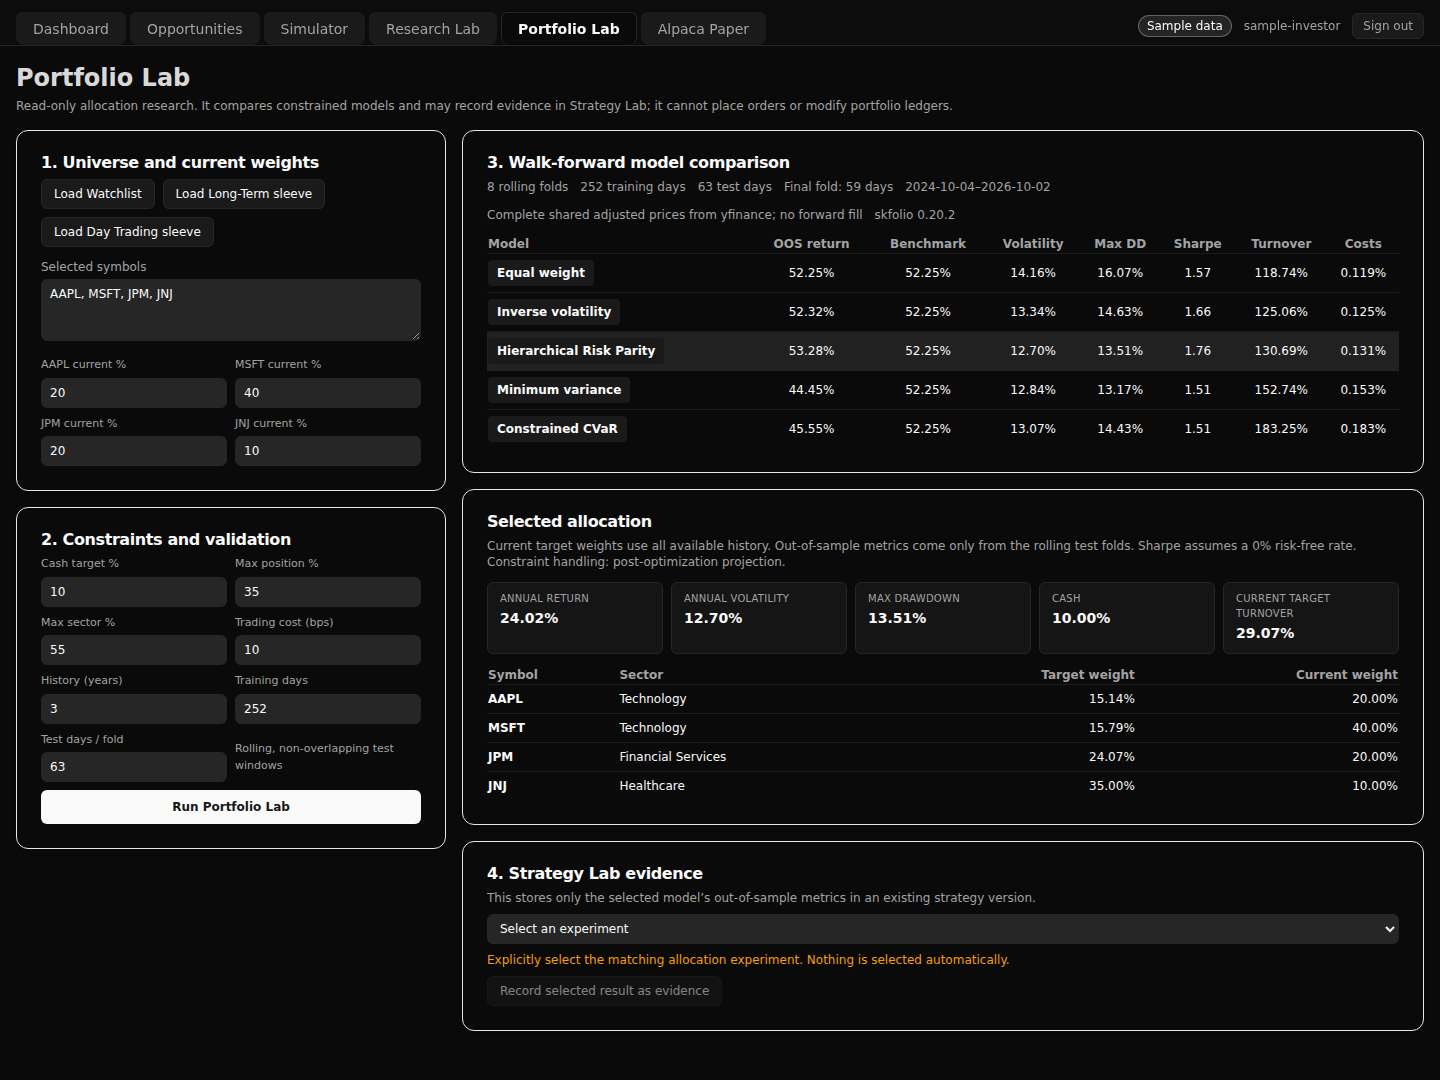
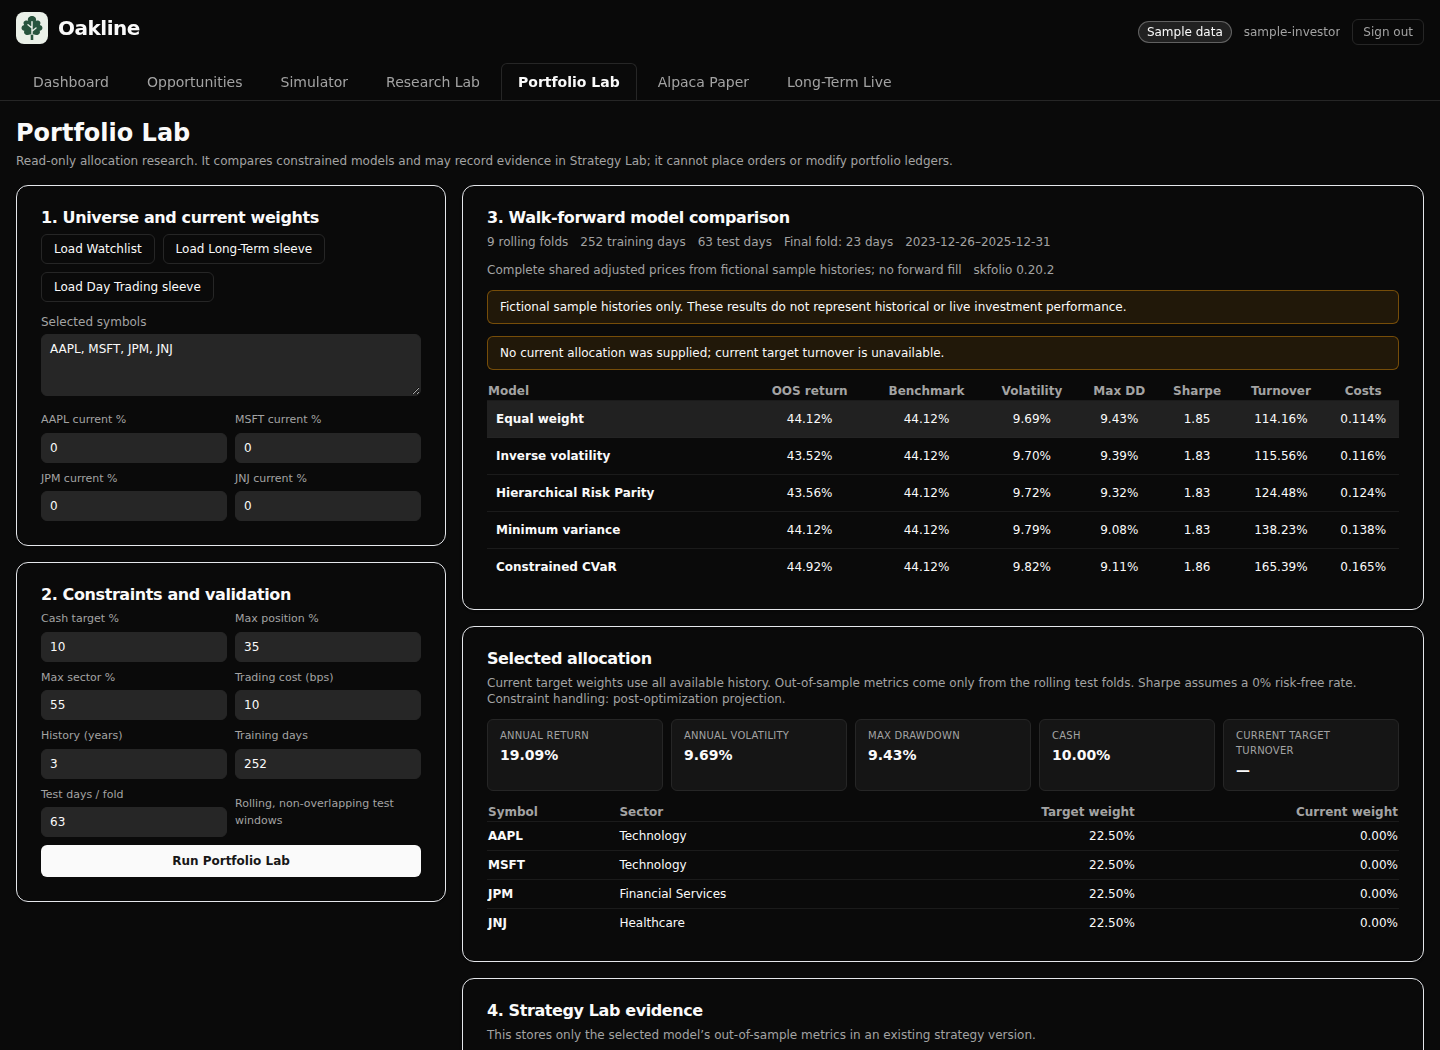
Rebrand the investment workspace as Oakline

diff --git a/frontend/src/App.tsx b/frontend/src/App.tsx
@@ -1,6 +1,7 @@
 import { lazy, Suspense, useEffect, useState } from 'react'
 import type { FormEvent } from 'react'
 import { WorkspaceErrorBoundary } from '@/components/WorkspaceErrorBoundary'
+import { OaklineBrand } from '@/components/OaklineBrand'
 import { useQueryClient } from '@tanstack/react-query'
 import { AnimatePresence, motion, MotionConfig } from 'framer-motion'
 
@@ -66,7 +67,8 @@ function LoginPage({ onAuthenticated, initialError }: {
       <section className="w-full max-w-sm rounded-xl border border-border bg-card p-6 shadow-lg">
         <div className="mb-6">
           <p className="text-xs font-semibold uppercase tracking-[0.2em] text-primary">Private investment workspace</p>
-          <h1 className="mt-2 text-2xl font-bold text-foreground">Stock Dashboard</h1>
+          <h1 className="mt-3 text-3xl text-foreground"><OaklineBrand /></h1>
+          <p className="mt-2 text-base text-foreground">Invest with perspective.</p>
           <p className="mt-2 text-sm text-muted-foreground">Sign in to access portfolio, simulator, research, and broker data.</p>
         </div>
         <form className="space-y-4" onSubmit={submit}>
@@ -126,7 +128,7 @@ function App() {
         }
       })
       .catch(() => {
-        if (active) setAuth({ status: 'guest', error: 'Unable to reach the dashboard server.' })
+        if (active) setAuth({ status: 'guest', error: 'Unable to reach Oakline.' })
       })
     return () => { active = false }
   }, [])
@@ -145,7 +147,7 @@ function App() {
   }
 
   if (auth.status === 'loading') {
-    return <main className="min-h-screen flex items-center justify-center bg-background text-sm text-muted-foreground">Securing dashboard…</main>
+    return <main className="min-h-screen flex items-center justify-center bg-background text-sm text-muted-foreground">Opening Oakline…</main>
   }
   if (auth.status === 'guest') {
     return <LoginPage initialError={auth.error} onAuthenticated={(username, sampleData) => setAuth({ status: 'authenticated', username, sampleData })} />
@@ -154,36 +156,43 @@ function App() {
   return (
     <MotionConfig reducedMotion="user">
       <a href="#workspace-content" className="sr-only focus:not-sr-only focus:fixed focus:left-4 focus:top-4 focus:z-[70] focus:rounded focus:bg-background focus:p-3 focus:text-foreground">Skip to workspace</a>
-      <nav aria-label="Workspaces" className="sticky top-0 z-50 flex items-end gap-1 overflow-x-auto border-b border-border bg-background/90 backdrop-blur-sm px-4 pt-3 pb-0">
-        {TABS.map((tab) => (
-          <button
-            key={tab.id}
-            type="button"
-            aria-current={activeTab === tab.id ? 'page' : undefined}
-            aria-controls="workspace-content"
-            onClick={() => setActiveTab(tab.id)}
-            className={[
-              'shrink-0 whitespace-nowrap px-4 py-2 text-sm rounded-t-md border border-b-0 transition-colors',
-              activeTab === tab.id
-                ? 'border-border bg-card text-foreground font-semibold'
-                : 'border-transparent text-muted-foreground hover:text-foreground',
-            ].join(' ')}
-          >
-            {tab.label}
+      <header className="sticky top-0 z-50 border-b border-border bg-background/95 backdrop-blur-sm">
+        <div className="flex flex-wrap items-center justify-between gap-x-4 gap-y-2 px-4 py-3">
+          <button type="button" onClick={() => setActiveTab('dashboard')} aria-label="Oakline home" className="rounded-md text-xl text-foreground">
+            <OaklineBrand />
           </button>
-        ))}
-        <div className="ml-auto flex items-center gap-3 pb-1.5 pl-4 text-xs text-muted-foreground">
-          {auth.sampleData && <span className="whitespace-nowrap rounded-full border border-primary/30 bg-primary/10 px-2 py-0.5 font-medium text-primary">Sample data</span>}
-          <span>{auth.username}</span>
-          <button
-            type="button"
-            onClick={() => void logout()}
-            className="rounded-md border border-border px-2.5 py-1 transition-colors hover:border-primary hover:text-foreground"
-          >
-            Sign out
-          </button>
+          <div className="flex min-w-0 flex-wrap items-center gap-3 text-xs text-muted-foreground">
+            {auth.sampleData && <span className="whitespace-nowrap rounded-full border border-primary/30 bg-primary/10 px-2 py-0.5 font-medium text-primary">Sample data</span>}
+            <span className="max-w-40 truncate" title={auth.username}>{auth.username}</span>
+            <button
+              type="button"
+              onClick={() => void logout()}
+              className="shrink-0 rounded-md border border-border px-2.5 py-1 transition-colors hover:border-primary hover:text-foreground"
+            >
+              Sign out
+            </button>
+          </div>
         </div>
-      </nav>
+        <nav aria-label="Workspaces" className="flex items-end gap-1 overflow-x-auto px-4">
+          {TABS.map((tab) => (
+            <button
+              key={tab.id}
+              type="button"
+              aria-current={activeTab === tab.id ? 'page' : undefined}
+              aria-controls="workspace-content"
+              onClick={() => setActiveTab(tab.id)}
+              className={[
+                'shrink-0 whitespace-nowrap px-4 py-2 text-sm rounded-t-md border border-b-0 transition-colors',
+                activeTab === tab.id
+                  ? 'border-border bg-card text-foreground font-semibold'
+                  : 'border-transparent text-muted-foreground hover:text-foreground',
+              ].join(' ')}
+            >
+              {tab.label}
+            </button>
+          ))}
+        </nav>
+      </header>
 
       {logoutError && <p role="alert" className="p-3 text-sm text-destructive">{logoutError}</p>}
       <section id="workspace-content" tabIndex={-1} aria-label={TABS.find((tab) => tab.id === activeTab)?.label}>

diff --git a/frontend/src/App.test.tsx b/frontend/src/App.test.tsx
@@ -4,8 +4,8 @@ import { QueryClient, QueryClientProvider } from '@tanstack/react-query'
 import App from './App'
 
 vi.mock('@/components/Dashboard', () => ({
-  Dashboard: () => <div>Stock Dashboard</div>,
-  default: () => <div>Stock Dashboard</div>,
+  Dashboard: () => <h1>Market overview</h1>,
+  default: () => <h1>Market overview</h1>,
 }))
 
 vi.mock('@/pages/AlpacaPaperPage', () => ({
@@ -50,7 +50,7 @@ describe('App', () => {
 
     renderWithProviders(<App />)
 
-    expect(await screen.findByRole('heading', { name: 'Stock Dashboard' })).toBeInTheDocument()
+    expect(await screen.findByRole('heading', { name: 'Oakline' })).toBeInTheDocument()
     expect(screen.getByRole('button', { name: 'Sign in' })).toBeInTheDocument()
     expect(screen.queryByText('Research Lab')).not.toBeInTheDocument()
   })
@@ -71,13 +71,13 @@ describe('App', () => {
     fireEvent.change(screen.getByLabelText('Password'), { target: { value: 'secret' } })
     fireEvent.click(screen.getByRole('button', { name: 'Sign in' }))
 
-    await waitFor(() => expect(screen.getByText('Stock Dashboard')).toBeInTheDocument())
+    await waitFor(() => expect(screen.getByRole('heading', { name: 'Market overview' })).toBeInTheDocument())
     expect(fetch).toHaveBeenLastCalledWith('/api/auth/login', expect.objectContaining({ method: 'POST' }))
   })
 
-  it('renders the Stock Dashboard heading', async () => {
+  it('opens the market overview in the authenticated workspace', async () => {
     renderWithProviders(<App />)
-    expect(await screen.findByText('Stock Dashboard')).toBeInTheDocument()
+    expect(await screen.findByRole('heading', { name: 'Market overview' })).toBeInTheDocument()
     expect(screen.queryByText('Sample data')).not.toBeInTheDocument()
   })
 

diff --git a/backend/server.js b/backend/server.js
@@ -124,7 +124,7 @@ function createApp({ auth = createAuthFromEnv(), env = process.env } = {}) {
 function resolveListenHost(env = process.env) {
     const host = env.STOCK_DASHBOARD_HOST || '127.0.0.1';
     if (host === '127.0.0.1' || host === '::1') return host;
-    if (host !== '0.0.0.0') throw new Error('Stock Dashboard listener must use loopback or the guarded LAN proxy mode');
+    if (host !== '0.0.0.0') throw new Error('Oakline listener must use loopback or the guarded LAN proxy mode');
     if (env.STOCK_DASHBOARD_SECURE_COOKIE !== '1') throw new Error('LAN proxy mode requires secure cookies');
     let publicOrigin;
     try {
@@ -164,7 +164,7 @@ async function start() {
 
         const host = resolveListenHost();
         const server = app.listen(PORT, host, () => {
-            console.log(`Stock Dashboard running on ${host}:${PORT}`);
+            console.log(`Oakline running on ${host}:${PORT}`);
         });
         if (releaseSampleLock) {
             process.once('exit', releaseSampleLock);

diff --git a/frontend/index.html b/frontend/index.html
@@ -3,9 +3,12 @@
 
 <head>
   <meta charset="UTF-8" />
-  <link rel="icon" type="image/svg+xml" href="/vite.svg" />
+  <link rel="icon" type="image/svg+xml" href="/oakline.svg" />
   <meta name="viewport" content="width=device-width, initial-scale=1.0" />
-  <title>Stock Dashboard</title>
+  <meta name="application-name" content="Oakline" />
+  <meta name="description" content="Oakline — invest with perspective. A workspace for investment research, portfolio tracking, simulation, and controlled live investing." />
+  <meta name="theme-color" content="#28543E" />
+  <title>Oakline — Invest with perspective.</title>
 </head>
 
 <body>

diff --git a/frontend/src/components/Dashboard.tsx b/frontend/src/components/Dashboard.tsx
@@ -59,7 +59,7 @@ export function Dashboard() {
       <div className="max-w-[1600px] mx-auto">
         {/* Header with title and glossary button */}
         <div className="flex flex-wrap items-center justify-between gap-3 mb-4">
-          <h1 className="text-2xl font-bold text-foreground">Stock Dashboard</h1>
+          <h1 className="text-2xl font-bold text-foreground">Market overview</h1>
           <div className="flex items-center gap-2">
             <button
               type="button"

diff --git a/frontend/src/components/OaklineBrand.tsx b/frontend/src/components/OaklineBrand.tsx
@@ -1,0 +1,6 @@
+export function OaklineBrand({ className = '' }: { className?: string }) {
+  return <span className={`inline-flex shrink-0 items-center gap-2.5 font-semibold tracking-tight ${className}`}>
+    <img src="/oakline.svg" width="32" height="32" alt="" className="size-8 shrink-0" />
+    <span>Oakline</span>
+  </span>
+}

diff --git a/frontend/src/types/index.ts b/frontend/src/types/index.ts
@@ -1,5 +1,5 @@
 /**
- * Shared TypeScript types for the stock dashboard.
+ * Shared TypeScript types for Oakline.
  * Field names match exactly what the Express backend returns from the Python yfinance wrapper.
  */
 

diff --git a/backend/python/yf_wrapper.py b/backend/python/yf_wrapper.py
@@ -1,6 +1,6 @@
 #!/usr/bin/env python3
 """
-yfinance wrapper for stock dashboard
+yfinance wrapper for Oakline
 Takes JSON input from stdin, outputs JSON to stdout
 """
 import yfinance as yf

diff --git a/README.md b/README.md
@@ -1,22 +1,24 @@
-# Stock Dashboard
+# Oakline
 
-A self-hosted stock research and paper-trading workbench I use myself. It brings
-market data, a transaction-ledger portfolio, risk rules, and an AI analyst with
-tools into one app. The screenshots below use a fictional portfolio in a separate
-sample database.
+*Invest with perspective.*
+
+A self-hosted investment research and trading workbench. Oakline brings market
+data, a transaction-ledger portfolio, risk rules, and an AI analyst with tools
+into one app, with separate paper-trading and guarded live-investing workspaces.
+The screenshots below use a fictional portfolio in a separate sample database.
 
 ![Market dashboard with market pulse and a stock chart](docs/screenshots/01-dashboard.png)
 
 | Portfolio and risk rules | Paper-trading simulator |
 |---|---|
-| [![Fictional holdings, P&L, and a position-limit breach](docs/screenshots/02-portfolio.png)](docs/screenshots/02-portfolio.png) | [![Separate simulator sleeves and fictional trade history](docs/screenshots/04-simulator.png)](docs/screenshots/04-simulator.png) |
+| [![Fictional holdings and portfolio risk controls](docs/screenshots/02-portfolio.png)](docs/screenshots/02-portfolio.png) | [![Separate simulator sleeves and fictional trade history](docs/screenshots/04-simulator.png)](docs/screenshots/04-simulator.png) |
 
-[![AI analyst using the portfolio risk tool to explain a position-limit breach](docs/screenshots/03-ai-analyst.png)](docs/screenshots/03-ai-analyst.png)
+[![AI analyst workspace on the fictional sample account](docs/screenshots/03-ai-analyst.png)](docs/screenshots/03-ai-analyst.png)
 
-Live OpenAI response on the fictional account: the risk tool reports MSFT at
-18.15% against a 15% position limit. No trades were requested or executed.
+The analyst screenshot shows the workspace before a conversation starts.
+No model response or trade was generated for these screenshots.
 
-[![Portfolio Lab comparing five allocation methods with walk-forward results](docs/screenshots/05-portfolio-lab.png)](docs/screenshots/05-portfolio-lab.png)
+[![Portfolio Lab comparing five allocation methods using synthetic sample histories](docs/screenshots/05-portfolio-lab.png)](docs/screenshots/05-portfolio-lab.png)
 
 **Two-minute walkthrough:** recording pending. There is no hosted demo; use the
 [local sample setup](#local-sample-portfolio) to explore it yourself.
@@ -66,9 +68,9 @@ they change as the app evolves.
 
 | Measure | Count |
 |---|---:|
-| Backend JavaScript tests / test files | 758 / 79 |
-| Frontend tests / test files | 88 / 27 |
-| API route files | 19 |
+| Backend JavaScript tests / test files | 919 / 95 |
+| Frontend tests / test files | 107 / 30 |
+| API route files | 21 |
 | Standalone migration files | 2 |
 
 Schema initialization also lives in `backend/database/db.js`. See [Tests](#tests)
@@ -155,6 +157,10 @@ python3 -m venv portfolio_lab/venv && portfolio_lab/venv/bin/pip install -r port
 cp .env.example .env   # configure the required auth values documented below
 node server.js         # http://localhost:3002
 ```
+
+Oakline retains the existing `STOCK_DASHBOARD_*` configuration names for
+compatibility. Existing installations and agent integrations can keep their
+current environment variables.
 
 `.env` keys:
 

diff --git a/SECURITY.md b/SECURITY.md
@@ -20,7 +20,10 @@ technical details.
 
 ## Broker and credential boundary
 
-The Alpaca integration is intentionally paper-only. The service rejects the
-live trading endpoint, and paper-order submission is disabled unless its
-independent enablement controls are explicitly configured. Never commit broker
-credentials, dashboard secrets, runtime databases, exports, or logs.
+Oakline's Alpaca paper client rejects the live trading endpoint, and paper-order
+submission is disabled unless its independent enablement controls are explicitly
+configured. The separate live-investing client requires its own credentials,
+expected account identity, and explicit submission gate. Live investing starts
+paused and unfunded; allocation limits and execution mode require operator review.
+Preserve the separation between paper, live, and simulator accounts. Never commit
+broker credentials, application secrets, runtime databases, exports, or logs.

diff --git a/CONTRIBUTING.md b/CONTRIBUTING.md
@@ -1,6 +1,6 @@
 # Contributing
 
-Contributions are welcome through focused pull requests against `main`.
+Contributions to Oakline are welcome through focused pull requests against `main`.
 
 ## Before submitting
 
@@ -8,7 +8,9 @@ Contributions are welcome through focused pull requests against `main`.
    deployment details out of Git.
 2. Use neutral examples (`dashboard-user`, `stocks.example.com`, and RFC 5737
    documentation IP addresses) in tests and documentation.
-3. Preserve the paper-only broker boundary and simulator/account isolation.
+3. Preserve paper, live, and simulator account isolation. Keep live credentials,
+   account binding, submission gates, and operator-reviewed limits separate from
+   paper trading.
 4. Add or update tests for behavior changes.
 5. Run the backend and frontend checks documented in `README.md`.
 6. Describe security-sensitive changes and any remaining limitations clearly.

diff --git a/frontend/README.md b/frontend/README.md
@@ -1,8 +1,9 @@
-# Stock Dashboard frontend
+# Oakline frontend
 
-React, TypeScript, Vite, and Tailwind provide the research dashboard, portfolio,
-simulator, paper-trading views, and AI chat. Follow the [root setup guide](../README.md#setup)
-to configure the backend and its Python environments first.
+React, TypeScript, Vite, and Tailwind provide Oakline's research dashboard,
+portfolio, simulator, paper-trading and live-investing views, Research Lab, and
+AI chat. Follow the [root setup guide](../README.md#setup) to configure the
+backend and its Python environments first.
 
 ## Development
 
